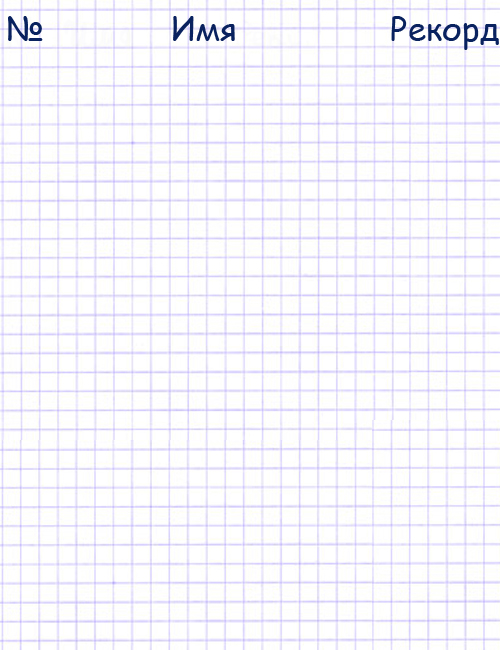
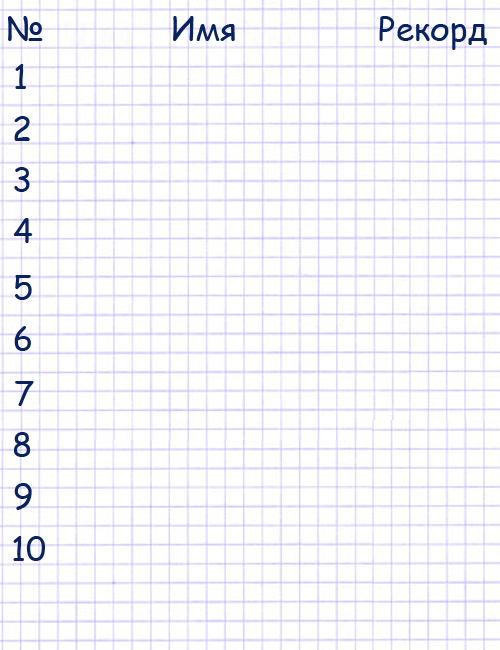
Design table record

diff --git a/html/record.html b/html/record.html
@@ -6,9 +6,12 @@
 <style type="text/css">
 
   </style>
+ 
 </head>
-
-
+<div id="rec1">
+ 
+<div id="mama">
+ 
  
 
 <script>
@@ -21,19 +24,24 @@ db.transaction(function(tx){
 		
 		var tableR = '<table background="221.jpg" align="center" width="500px" height="570px" border="1"  id="tablR"><tr><td>.</td><td></td><td></td></tr> ';
 		for(var i = 0; i< result.rows.length; i++){
-			tableR= tableR+'<tr><td>' + result.rows.item(i)['id'] + ' </td><td>' + result.rows.item(i)['name'] + '</td><td>' + result.rows.item(i)['points']+ '</td></tr>' ;
+			tableR= tableR+'<tr><td style="color:white; font: 20px Comic Sans MS;">'  + result.rows.item(i)['id'] + ' </td><td style="font: 20px Comic Sans MS;">' + result.rows.item(i)['name'] + '</td><td style="font: 20px Comic Sans MS;">' + result.rows.item(i)['points']+ '</td></tr>' ;
 		}
-		tableR+='</table><div   align="center"><br>Играть</div>';
-		document.write(tableR);
+		tableR+='</table><div   align="center"><br></div>';
+		//document.write(tableR);
+		document.getElementById("mama").innerHTML = tableR;
 		}, null)});
 
 
 </script>
-  
-  
+ </div> 
+  <script src="src/Util.js" type="text/javascript"></script>
+ <div onclick="document.getElementById('player').play();gameStart()" align="center" >
 
-
+ </div>
+  </div>
+  
 <body >
 
+  
 </body>
 </html>

diff --git a/html/game.html b/html/game.html
@@ -75,14 +75,11 @@
 			$(window).resize(function(){
 				$('#canvas1').css('left',$('#canvas').offset().left);
 			}).trigger('resize');
-<<<<<<< HEAD
 
-			//if((navigator.userAgent).indexOf('Chrome') == -1){
-		      //  alert('Для правильной работы приложения необходим браузер Google Chrome');
-		      //  document.location.href = "menu.html";
-		   // }
-=======
->>>>>>> 7f986b64f0c8cb47e8f5d546bfd98376b3373af6
+			if((navigator.userAgent).indexOf('Chrome') == -1){
+		       alert('Для правильной работы приложения необходим браузер Google Chrome');
+		       document.location.href = "menu.html";
+		   }
 		});
 		/*--------------*/
 	</script>
